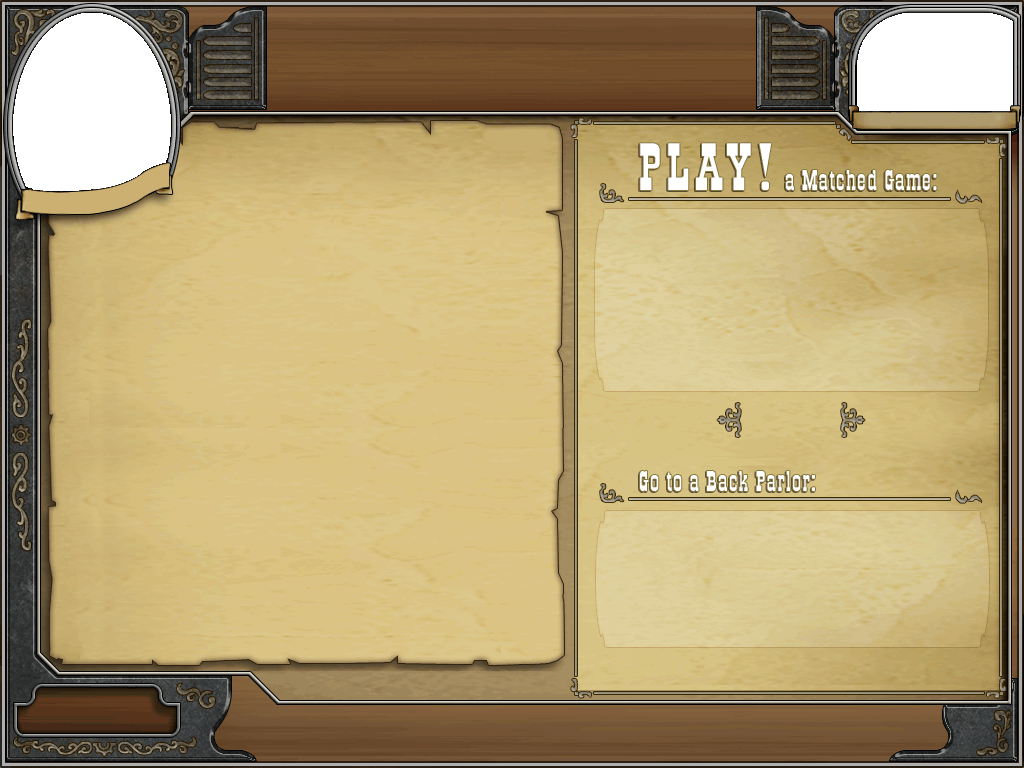
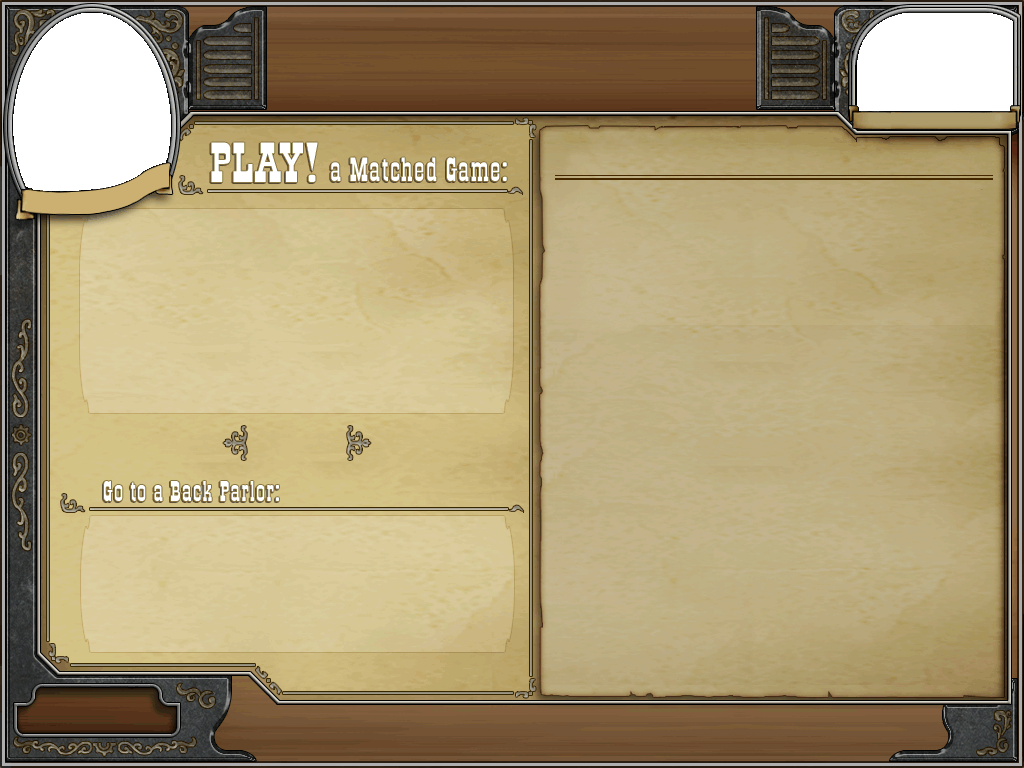
Revamped the main saloon UI. The friendly folks UI still needs some adjustment and the back parlor UI will be modified to use the same layout as the main saloon UI.

diff --git a/src/java/com/threerings/bang/saloon/client/PaperView.java b/src/java/com/threerings/bang/saloon/client/PaperView.java
@@ -4,38 +4,23 @@
 package com.threerings.bang.saloon.client;
 
 import java.io.StringReader;
-import java.io.StringWriter;
 import java.net.URL;
-import java.text.DateFormat;
 import javax.swing.text.html.HTMLDocument;
 
-import java.util.ArrayList;
-import java.util.Calendar;
-import java.util.Collections;
-import java.util.Date;
 import java.util.logging.Level;
 
 import com.jmex.bui.BButton;
 import com.jmex.bui.BContainer;
 import com.jmex.bui.BLabel;
 import com.jmex.bui.BScrollPane;
-import com.jmex.bui.Spacer;
+import com.jmex.bui.BToggleButton;
 import com.jmex.bui.event.ActionEvent;
 import com.jmex.bui.event.ActionListener;
-import com.jmex.bui.icon.ImageIcon;
 import com.jmex.bui.layout.BorderLayout;
 import com.jmex.bui.layout.GroupLayout;
-import com.jmex.bui.layout.TableLayout;
 import com.jmex.bui.text.HTMLView;
 
-import org.apache.velocity.VelocityContext;
-import org.apache.velocity.app.VelocityEngine;
-
-import com.samskivert.util.CollectionUtil;
 import com.samskivert.util.ResultListener;
-import com.samskivert.velocity.DataTool;
-import com.samskivert.velocity.VelocityUtil;
-
 import com.threerings.util.MessageBundle;
 
 import com.threerings.bang.client.BangUI;
@@ -50,67 +35,40 @@ import com.threerings.bang.saloon.data.TopRankedList;
 import static com.threerings.bang.Log.log;
 
 /**
- * Displays the daily paper.
+ * Contains the various Saloon information displays: news, friendly folks, top
+ * scores.
  */
 public class PaperView extends BContainer
 {
     public PaperView (BangContext ctx)
     {
         super(GroupLayout.makeVStretch());
-        ((GroupLayout)getLayoutManager()).setGap(0);
+        ((GroupLayout)getLayoutManager()).setGap(12);
         setStyleClass("news_view");
+
         _ctx = ctx;
         _msgs = ctx.getMessageManager().getBundle(SaloonCodes.SALOON_MSGS);
-        String townId = ctx.getUserObject().townId;
 
-        BLabel lbl;
-        add(lbl = new BLabel("", "news_nameplate"), GroupLayout.FIXED);
-        String npath = "ui/saloon/" + townId + "/nameplate.png";
-        lbl.setIcon(new ImageIcon(ctx.loadImage(npath)));
-
-        BContainer row = GroupLayout.makeHBox(GroupLayout.RIGHT);
-        TableLayout tlay = new TableLayout(6, 0, 0);
-        tlay.setHorizontalAlignment(TableLayout.STRETCH);
-        BContainer masthead = new BContainer(tlay);
-        masthead.setStyleClass("news_masthead");
-
-        Calendar cal = Calendar.getInstance();
-        int week = cal.get(Calendar.WEEK_OF_YEAR);
-        String number = _msgs.get("m.news_number", String.valueOf(week));
-        masthead.add(new BLabel(number, "news_mastlabel"));
-
-        masthead.add(createMastheadButton("news"));
-        masthead.add(createMastheadButton("folks"));
-        masthead.add(createMastheadButton("top_scores"));
-        // turning these off until they do something
-        // masthead.add(createMastheadButton("events"));
-        // masthead.add(createMastheadButton("highlights"));
-
-        masthead.add(new BLabel(_dfmt.format(new Date()), "news_mastlabel"));
-        row.add(masthead);
-        row.add(new Spacer(5, 0));
-        add(row, GroupLayout.FIXED);
-        add(new Spacer(0, 10), GroupLayout.FIXED);
+        BContainer buttons = GroupLayout.makeHBox(GroupLayout.CENTER);
+        _navi = new BToggleButton[3];
+        buttons.add(_navi[0] = createMastheadButton("news"));
+        buttons.add(_navi[1] = createMastheadButton("folks"));
+        buttons.add(_navi[2] = createMastheadButton("top_scores"));
+        add(buttons, GroupLayout.FIXED);
 
         add(_contcont = new BContainer(new BorderLayout()));
 
-        add(new Spacer(0, 15), GroupLayout.FIXED);
-        GroupLayout hlay = GroupLayout.makeHoriz(GroupLayout.RIGHT);
-        hlay.setGap(40);
-        BContainer bcont = new BContainer(hlay);
-        bcont.setStyleClass("news_buttons");
-        bcont.add(_back = new BButton("", _listener, "back"));
-        _back.setStyleClass("back_button");
-        _back.setEnabled(false);
-        bcont.add(_forward = new BButton("", _listener, "forward"));
-        _forward.setStyleClass("fwd_button");
-        _forward.setEnabled(true);
-        add(bcont, GroupLayout.FIXED);
-
         // read in the main news page
         refreshNews(false);
+
+        // when the news is loaded; it will display the news tab, but we need
+        // to hand set the proper navigation button to selected
+        _navi[0].setSelected(true);
     }
 
+    /**
+     * Provides us with a reference to our saloon object.
+     */
     public void init (SaloonObject salobj)
     {
         _salobj = salobj;
@@ -118,16 +76,19 @@ public class PaperView extends BContainer
         _folks = new FolkView(_ctx, this, _salobj);
     }
 
-    /** Called when the FolkView chat interface demands focus */
+    /**
+     * Called when the FolkView chat interface demands focus.
+     */
     public void folkChatAlert ()
     {
         displayPage(1);
     }
 
-    protected BButton createMastheadButton (String id)
+    protected BToggleButton createMastheadButton (String id)
     {
-        BButton button = new BButton(_msgs.get("m.news_" + id), _listener, id);
-        button.setStyleClass("news_mastlabel");
+        BToggleButton button = new BToggleButton("", id);
+        button.addListener(_listener);
+        button.setStyleClass("news_" + id);
         return button;
     }
 
@@ -135,6 +96,11 @@ public class PaperView extends BContainer
     {
         if (_pageNo == pageNo) {
             return;
+        }
+
+        // configure our navigation buttons properly
+        for (int ii = 0; ii < _navi.length; ii++) {
+            _navi[ii].setSelected(pageNo == ii);
         }
 
         switch (_pageNo = pageNo) {
@@ -148,7 +114,7 @@ public class PaperView extends BContainer
                 _contcont.add(_folks, BorderLayout.CENTER);
             }
             break;
-            
+
         case 2:
             if (_topscore == null) {
                 _topscore = new TopScoreView(_ctx, _salobj);
@@ -159,15 +125,12 @@ public class PaperView extends BContainer
             }
             break;
         }
-
-        _back.setEnabled(_pageNo > 0);
-        _forward.setEnabled(_pageNo < 2);
     }
 
     protected void setContents (String contents)
     {
         if (_contents == null) {
-            _contents = new HTMLView(); 
+            _contents = new HTMLView();
             _contents.setStyleClass("news_contents");
         }
         if (_contscroll == null) {
@@ -212,32 +175,6 @@ public class PaperView extends BContainer
         }
     }
 
-    protected String createTopScoresHTML ()
-    {
-        // sort our lists in the order we want them displayed in the template
-        ArrayList<TopRankedList> lists = new ArrayList<TopRankedList>();
-        CollectionUtil.addAll(lists, _salobj.topRanked.iterator());
-
-        try {
-            if (_vformatter == null) {
-                _vformatter = VelocityUtil.createEngine();
-            }
-            VelocityContext ctx = new VelocityContext();
-            ctx.put("i18n", _ctx.getMessageManager().getBundle(
-                        SaloonCodes.SALOON_MSGS));
-            ctx.put("data", new DataTool());
-            ctx.put("lists", lists);
-            StringWriter sw = new StringWriter();
-            _vformatter.mergeTemplate(
-                "rsrc/ui/saloon/top_scores.tmpl", "UTF-8", ctx, sw);
-            return sw.toString();
-
-        } catch (Exception e) {
-            log.log(Level.WARNING, "Failed to format top scores.", e);
-            return _msgs.get(SaloonCodes.INTERNAL_ERROR);
-        }
-    }
-
     protected ResultListener<String> _newsup = new ResultListener<String>() {
         public void requestCompleted (String result) {
             updateNews(result);
@@ -262,11 +199,7 @@ public class PaperView extends BContainer
     protected ActionListener _listener = new ActionListener() {
         public void actionPerformed (ActionEvent event) {
             String action = event.getAction();
-            if (action.equals("forward")) {
-                displayPage(_pageNo+1);
-            } else if (action.equals("back")) {
-                displayPage(_pageNo-1);
-            } else if (action.equals("news")) {
+            if (action.equals("news")) {
                 displayPage(0);
             } else if (action.equals("folks")) {
                 displayPage(1);
@@ -279,16 +212,15 @@ public class PaperView extends BContainer
     protected BangContext _ctx;
     protected MessageBundle _msgs;
     protected SaloonObject _salobj;
-    protected BButton _forward, _back;
+
     protected BContainer _contcont;
+    protected BToggleButton[] _navi;
     protected TopScoreView _topscore;
     protected FolkView _folks;
     protected HTMLView _contents;
     protected BScrollPane _contscroll;
 
     protected int _pageNo;
-    protected VelocityEngine _vformatter;
-    protected DateFormat _dfmt = DateFormat.getDateInstance(DateFormat.SHORT);
 
     protected static CachedDocument _news;
 

diff --git a/src/java/com/threerings/bang/saloon/client/MatchView.java b/src/java/com/threerings/bang/saloon/client/MatchView.java
@@ -63,7 +63,7 @@ public class MatchView extends BContainer
                  GroupLayout.FIXED);
         main.add(_right = GroupLayout.makeVBox(GroupLayout.CENTER));
         ((GroupLayout)_right.getLayoutManager()).setGap(0);
-        main.setPreferredSize(new Dimension(395, 203));
+        main.setPreferredSize(new Dimension(395, 224));
         add(main, GroupLayout.FIXED);
 
         // this will contain our current criterion
@@ -94,6 +94,7 @@ public class MatchView extends BContainer
         _chat = new ChatView(_ctx, _ctx.getChatDirector()) {
             /* ChatView() */ {
                 _text.setStyleClass("match_chat_text");
+                _input.setStyleClass("match_chat_input");
             }
             protected boolean handlesType (String localType) {
                 return "match_chat".equals(localType);
@@ -105,10 +106,13 @@ public class MatchView extends BContainer
                     _input.getText());
             }
         };
-        ((BorderLayout)_chat.getLayoutManager()).setGaps(2, 3);
+        ((BorderLayout)_chat.getLayoutManager()).setGaps(2, 0);
         _chat.setEnabled(false);
         icon = new ImageIcon(_ctx.loadImage("ui/chat/bubble_icon.png"));
-        _chat.setChatButton(new BButton(icon, ""));
+        BButton chat = new BButton(icon, "");
+        chat.setStyleClass("arrow_button");
+        _chat.setChatButton(chat);
+        _chat.setStyleClass("match_chat");
         add(_chat);
     }
 

diff --git a/src/java/com/threerings/bang/saloon/client/ParlorList.java b/src/java/com/threerings/bang/saloon/client/ParlorList.java
@@ -9,6 +9,7 @@ import com.jmex.bui.BButton;
 import com.jmex.bui.BContainer;
 import com.jmex.bui.BLabel;
 import com.jmex.bui.BScrollPane;
+import com.jmex.bui.Spacer;
 import com.jmex.bui.icon.BlankIcon;
 import com.jmex.bui.icon.ImageIcon;
 import com.jmex.bui.event.ActionEvent;
@@ -52,9 +53,10 @@ public class ParlorList extends BContainer
             TableLayout.STRETCH);
         add(new BScrollPane(_list), BorderLayout.CENTER);
 
-        BContainer buttons = GroupLayout.makeHBox(GroupLayout.CENTER);
-        String label = ctx.xlate(SaloonCodes.SALOON_MSGS, "m.create");
+        BContainer buttons = GroupLayout.makeHBox(GroupLayout.RIGHT);
+        String label = ctx.xlate(SaloonCodes.SALOON_MSGS, "m.create_parlor");
         buttons.add(_enterParlor = new BButton(label, this, "create"));
+        buttons.add(new Spacer(20, 5));
         add(buttons, BorderLayout.SOUTH);
     }
 
@@ -169,7 +171,7 @@ public class ParlorList extends BContainer
     {
         if (info == null) {
             _enterParlor.setText(_ctx.xlate(
-                        SaloonCodes.SALOON_MSGS, "m.create"));
+                        SaloonCodes.SALOON_MSGS, "m.create_parlor"));
             _enterParlor.setAction("create");
         } else {
             _enterParlor.setText(_ctx.xlate(

diff --git a/src/java/com/threerings/bang/saloon/client/SaloonView.java b/src/java/com/threerings/bang/saloon/client/SaloonView.java
@@ -39,7 +39,7 @@ public class SaloonView extends ShopView
         add(new WalletLabel(ctx, true), new Rectangle(25, 40, 150, 40));
         add(createHelpButton(), new Point(800, 25));
         add(new TownButton(ctx), new Point(870, 25));
-        add(_paper = new PaperView(ctx), new Rectangle(48, 68, 516, 576));
+        add(_paper = new PaperView(ctx), new Rectangle(542, 68, 465, 576));
 
         add(_parlist = new ParlorList(ctx), PARLIST_RECT);
 
@@ -140,9 +140,9 @@ public class SaloonView extends ShopView
     protected ParlorList _parlist;
 
     protected static final Rectangle CRIT_RECT =
-        new Rectangle(594, 328, 395, 233);
+        new Rectangle(77, 305, 440, 255);
     protected static final Rectangle MATCH_RECT =
-        new Rectangle(594, 77, 395, 493);
+        new Rectangle(77, 114, 440, 456);
     protected static final Rectangle PARLIST_RECT =
-        new Rectangle(610, 85, 365, 170);
+        new Rectangle(95, 81, 407, 168);
 }
